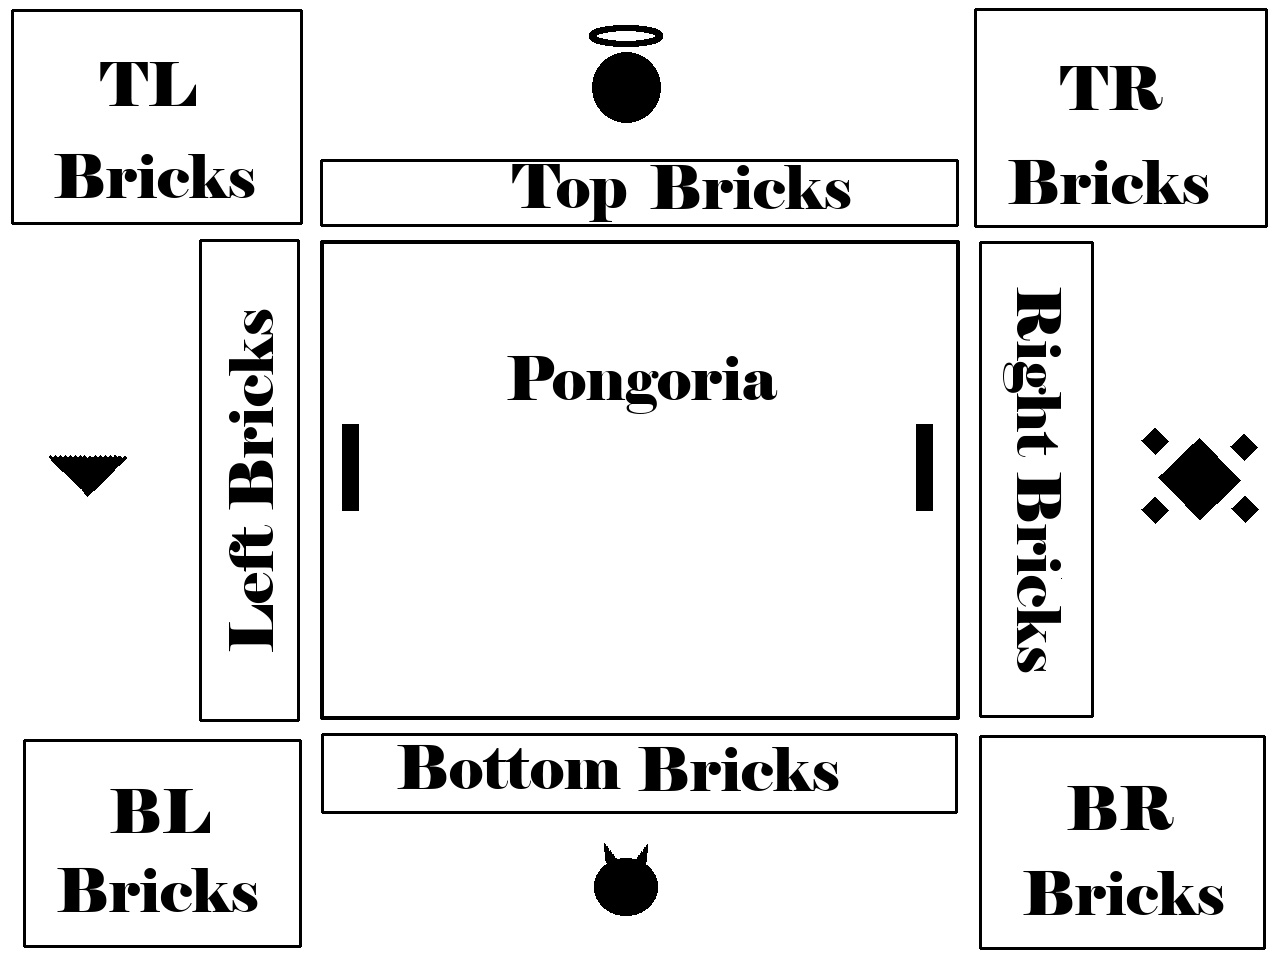
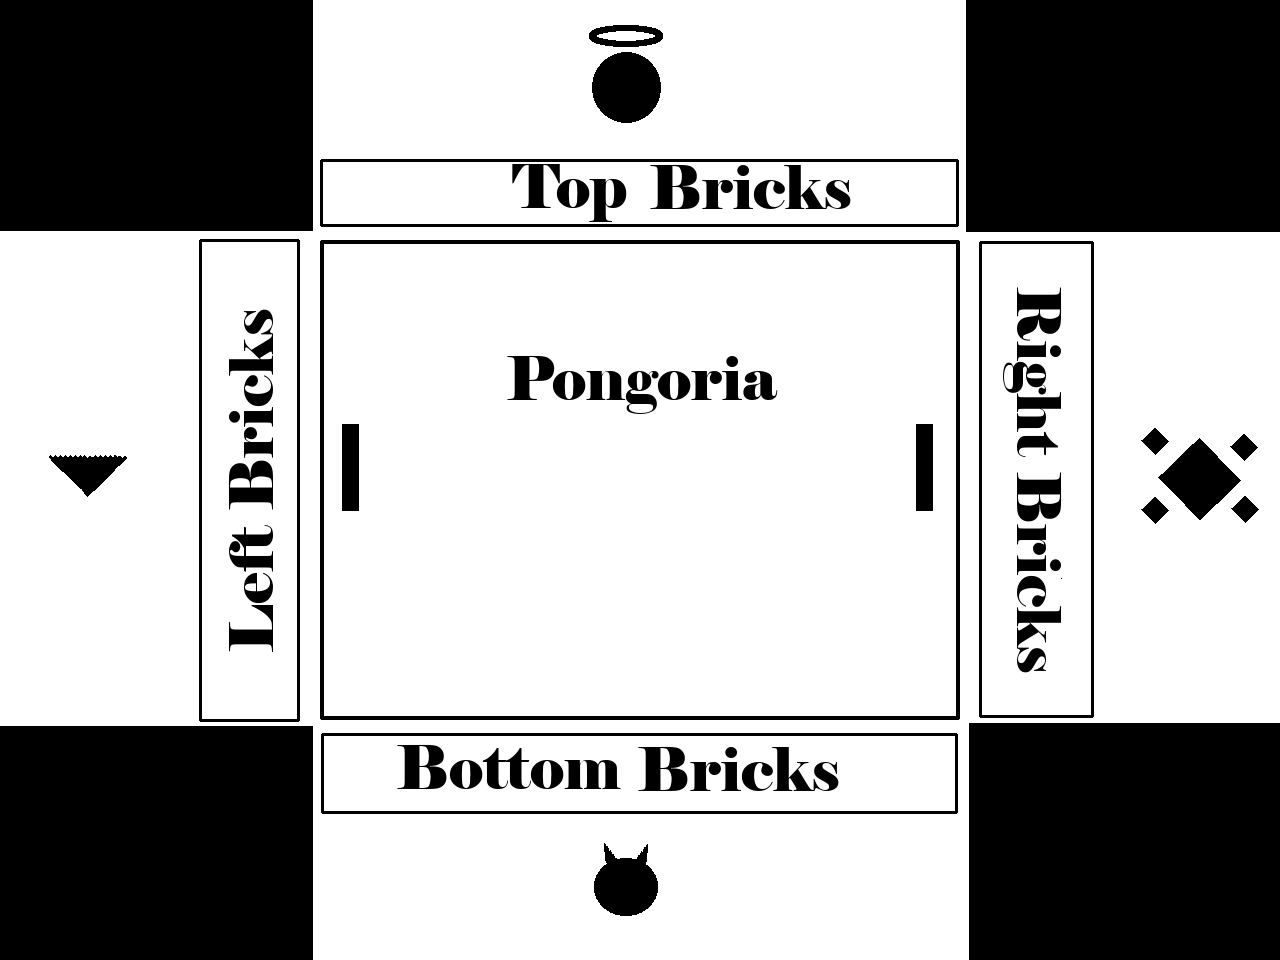
Rainbow POI, flipped world, color palette rework, and some map changes

diff --git a/PongMode.cpp b/PongMode.cpp
@@ -15,8 +15,16 @@ PongMode::PongMode() {
 	ball_trail.emplace_back(ball, trail_length);
 	ball_trail.emplace_back(ball, 0.0f);
 
+	// initialize rand_colors
+	for (int i = 0; i < sizeof(rand_colors) / sizeof(rand_colors[0]); i++) {
+		rand_colors[i] = rand_color();
+	}
+
 	// Set up POIs
-	POIs.emplace_back(glm::vec2(0.0f, 10.0f), POI_radius);
+	POIs.emplace_back(glm::vec2(0.0f, 18.0f), POI_radius);
+	POI rainbow_POI = POI(glm::vec2(0.0f, -18.0f), POI_radius);
+	rainbow_POI.rainbow = true;
+	POIs.emplace_back(rainbow_POI);
 
 	// TODO - more POIs?
 
@@ -29,6 +37,10 @@ PongMode::PongMode() {
 			bricks.emplace_back(glm::vec2(-x, y), glm::vec2(brick_width / 2.0f, brick_height / 2.0f));
 			bricks.emplace_back(glm::vec2( x,-y), glm::vec2(brick_width / 2.0f, brick_height / 2.0f));
 			bricks.emplace_back(glm::vec2(-x,-y), glm::vec2(brick_width / 2.0f, brick_height / 2.0f));
+			bricks_flipped.emplace_back(glm::vec2(x, y), glm::vec2(brick_height / 2.0f, brick_height / 2.0f));
+			bricks_flipped.emplace_back(glm::vec2(-x, y), glm::vec2(brick_height / 2.0f, brick_width / 2.0f));
+			bricks_flipped.emplace_back(glm::vec2(x, -y), glm::vec2(brick_height / 2.0f, brick_width / 2.0f));
+			bricks_flipped.emplace_back(glm::vec2(-x, -y), glm::vec2(brick_height / 2.0f, brick_height / 2.0f));
 		}
 	}
 	// Left & Right
@@ -38,6 +50,10 @@ PongMode::PongMode() {
 			bricks.emplace_back(glm::vec2(-x, y), glm::vec2(brick_height / 2.0f, brick_width / 2.0f));
 			bricks.emplace_back(glm::vec2(x, -y), glm::vec2(brick_height / 2.0f, brick_width / 2.0f));
 			bricks.emplace_back(glm::vec2(-x, -y), glm::vec2(brick_height / 2.0f, brick_width / 2.0f));
+			bricks_flipped.emplace_back(glm::vec2(x, y), glm::vec2(brick_width / 2.0f, brick_height / 2.0f));
+			bricks_flipped.emplace_back(glm::vec2(-x, y), glm::vec2(brick_width / 2.0f, brick_height / 2.0f));
+			bricks_flipped.emplace_back(glm::vec2(x, -y), glm::vec2(brick_width / 2.0f, brick_height / 2.0f));
+			bricks_flipped.emplace_back(glm::vec2(-x, -y), glm::vec2(brick_height / 2.0f, brick_height / 2.0f));
 		}
 	}
 
@@ -237,6 +253,14 @@ void PongMode::update(float elapsed, Window_settings& window_settings) {
 				ball.y = rect.y - radius.y - ball_radius.y;
 				ball_velocity.y = -std::abs(ball_velocity.y);
 			}
+			//warp x velocity based on offset from paddle center:
+			if (velo_warp) {
+				float og_speed = sqrt(ball_velocity.x * ball_velocity.x + ball_velocity.y * ball_velocity.y);
+				float vel = (ball.x - rect.x) / (radius.x + ball_radius.x);
+				ball_velocity.x = glm::mix(ball_velocity.x, vel, 0.75f);
+				ball_velocity /= sqrt(ball_velocity.x * ball_velocity.x + ball_velocity.y * ball_velocity.y);
+				ball_velocity *= og_speed;
+			}
 		} else {
 			//wider overlap in y => bounce in x direction:
 			if (ball.x > rect.x) {
@@ -270,15 +294,24 @@ void PongMode::update(float elapsed, Window_settings& window_settings) {
 		if (dist > radius) {
 			return false;
 		}
-		glm::vec2 displac_norm = displac / dist;
 		// Update velocity
-		float dot_product = ball_velocity.x * displac_norm.x + ball_velocity.y * displac_norm.y;
-		glm::vec2 projection = dot_product * displac_norm;
-		ball_velocity -= projection * 2.0f;
-		ball = circle - displac_norm * radius;
+		glm::vec2 displac_norm = displac / dist;
+		if (poi != NULL && poi->rainbow) {
+			state_rainbow = !state_rainbow;
+		}
 		if (poi != NULL && poi->flip) {
 			state_flipped = !state_flipped;
+			ball_velocity = -ball_velocity;
+			//set up trail as if ball has been here for 'forever':
+			ball_trail.clear();
+			ball_trail.emplace_back(ball, trail_length);
+			ball_trail.emplace_back(ball, 0.0f);
+		} else {
+			float dot_product = ball_velocity.x * displac_norm.x + ball_velocity.y * displac_norm.y;
+			glm::vec2 projection = dot_product * displac_norm;
+			ball_velocity -= projection * 2.0f;
 		}
+		ball = circle - displac_norm * radius;
 		cycle_title(window_settings);
 		return true;
 	};
@@ -290,12 +323,23 @@ void PongMode::update(float elapsed, Window_settings& window_settings) {
 	rect_vs_ball(top_paddle, horiz_paddle_radius, true);
 
 	// Check brick collisions with ball
-	for (auto bricks_iter = bricks.begin(); bricks_iter != bricks.end(); bricks_iter++) {
-		if (!(*bricks_iter).deleted) {
-			if (rect_vs_ball((*bricks_iter).Position, (*bricks_iter).Radius, false)) {
-				(*bricks_iter).deleted = true;
+	if (state_flipped) {
+		for (auto bricks_iter = bricks_flipped.begin(); bricks_iter != bricks_flipped.end(); bricks_iter++) {
+			if (!(*bricks_iter).deleted) {
+				if (rect_vs_ball((*bricks_iter).Position, (*bricks_iter).Radius, false)) {
+					(*bricks_iter).deleted = true;
+				}
 			}
 		}
+	} else {
+		for (auto bricks_iter = bricks.begin(); bricks_iter != bricks.end(); bricks_iter++) {
+			if (!(*bricks_iter).deleted) {
+				if (rect_vs_ball((*bricks_iter).Position, (*bricks_iter).Radius, false)) {
+					(*bricks_iter).deleted = true;
+				}
+			}
+		}
+
 	}
 
 	// Check POI collisions with ball
@@ -304,6 +348,12 @@ void PongMode::update(float elapsed, Window_settings& window_settings) {
 		circle_vs_ball((*POI_iter).Position, (*POI_iter).Radius, &(*POI_iter));
 	}
 
+	// Corner blocks
+	rect_vs_ball(TR_block, block_radius, false);
+	rect_vs_ball(BR_block, block_radius, false);
+	rect_vs_ball(BL_block, block_radius, false);
+	rect_vs_ball(TL_block, block_radius, false);
+
 	//court extremeties:
 	if (ball.y > extreme_radius.y - ball_radius.y) {
 		ball.y = extreme_radius.y - ball_radius.y;
@@ -311,10 +361,10 @@ void PongMode::update(float elapsed, Window_settings& window_settings) {
 			ball_velocity.y = -ball_velocity.y;
 		}
 		//extend wall upward.
-		camera_bounds_max.y += d_camera_bounds_per_bounce;
+		/*camera_bounds_max.y += d_camera_bounds_per_bounce;
 		camera_pos.y += d_camera_bounds_per_bounce * 0.5f;
 		window_settings.size.y += d_window_size_per_bounce;
-		window_settings.position.y -= d_window_size_per_bounce;
+		window_settings.position.y -= d_window_size_per_bounce;*/
 		cycle_title(window_settings);
 	}
 	if (ball.y < -extreme_radius.y + ball_radius.y) {
@@ -323,9 +373,9 @@ void PongMode::update(float elapsed, Window_settings& window_settings) {
 			ball_velocity.y = -ball_velocity.y;
 		}
 		//extend wall downward.
-		camera_bounds_min.y -= d_camera_bounds_per_bounce;
+		/*camera_bounds_min.y -= d_camera_bounds_per_bounce;
 		camera_pos.y -= d_camera_bounds_per_bounce * 0.5f;
-		window_settings.size.y += d_window_size_per_bounce;
+		window_settings.size.y += d_window_size_per_bounce;*/
 		cycle_title(window_settings);
 	}
 
@@ -335,9 +385,9 @@ void PongMode::update(float elapsed, Window_settings& window_settings) {
 			ball_velocity.x = -ball_velocity.x;
 		}
 		//extend wall right.
-		camera_bounds_max.x += d_camera_bounds_per_bounce;
+		/*camera_bounds_max.x += d_camera_bounds_per_bounce;
 		camera_pos.x += d_camera_bounds_per_bounce * 0.5f;
-		window_settings.size.x += d_window_size_per_bounce;
+		window_settings.size.x += d_window_size_per_bounce;*/
 		cycle_title(window_settings);
 	}
 	if (ball.x < -extreme_radius.x + ball_radius.x) {
@@ -346,10 +396,10 @@ void PongMode::update(float elapsed, Window_settings& window_settings) {
 			ball_velocity.x = -ball_velocity.x;
 		}
 		//extend wall left.
-		camera_bounds_min.x -= d_camera_bounds_per_bounce;
+		/*camera_bounds_min.x -= d_camera_bounds_per_bounce;
 		camera_pos.x -= d_camera_bounds_per_bounce * 0.5f;
 		window_settings.size.x += d_window_size_per_bounce;
-		window_settings.position.x -= d_window_size_per_bounce;
+		window_settings.position.x -= d_window_size_per_bounce;*/
 		cycle_title(window_settings);
 	}
 
@@ -370,6 +420,10 @@ void PongMode::update(float elapsed, Window_settings& window_settings) {
 }
 
 void PongMode::cycle_title(Mode::Window_settings &window_settings) {
+	//cycle rand_colors too
+	for (int i = 0; i < sizeof(rand_colors) / sizeof(rand_colors[0]); i++) {
+		rand_colors[i] = rand_color();
+	}
 	//update window name
 	if (window_settings.title == NULL) {
 		window_settings.title = &title_cycle[0];
@@ -385,25 +439,32 @@ void PongMode::cycle_title(Mode::Window_settings &window_settings) {
 	window_settings.title = &title_cycle[0];
 }
 
+glm::u8vec4 PongMode::rand_color() {
+	return glm::u8vec4(glm::u8(rand()), glm::u8(rand()), glm::u8(rand()), 0xff);
+}
+
 void PongMode::draw(glm::uvec2 const &drawable_size) {
 	//some nice colors from the course web page:
-	#define HEX_TO_U8VEC4( HX ) (glm::u8vec4( (HX >> 24) & 0xff, (HX >> 16) & 0xff, (HX >> 8) & 0xff, (HX) & 0xff ))
-	const glm::u8vec4 bg_color = HEX_TO_U8VEC4(0x171714ff);
-	const glm::u8vec4 fg_color = HEX_TO_U8VEC4(0xd1bb54ff);
-	const glm::u8vec4 brick_color = HEX_TO_U8VEC4(0x03fca1ff);
+	#define HEX_TO_U8VEC4( HX ) (state_flipped ? (~glm::u8vec4(HX >> 24, HX >> 16, HX >> 8, ~HX)) : (glm::u8vec4(HX >> 24, HX >> 16, HX >> 8, HX)) )
+	const glm::u8vec4 bg_color = state_rainbow ? (rand_colors[0]) : HEX_TO_U8VEC4(0x76BED0ff);
+	const glm::u8vec4 ball_color = state_rainbow ? (rand_colors[1]) : HEX_TO_U8VEC4(0xEEE5E9ff);
+	const glm::u8vec4 paddle_color = state_rainbow ? (rand_colors[2]) : HEX_TO_U8VEC4(0xA9FDACff);
+	const glm::u8vec4 brick_color = state_rainbow ? (rand_colors[3]) : HEX_TO_U8VEC4(0x1F2F16ff);
+	const glm::u8vec4 shadow_color = state_rainbow ? (rand_colors[4]) : HEX_TO_U8VEC4(0xCCC5C9f0);
+	const glm::u8vec4 shadow_color_2 = state_rainbow ? (rand_colors[5]) : HEX_TO_U8VEC4(0x00000000);
+	// Reserved POI colors
+	const glm::u8vec4 mauve_color = HEX_TO_U8VEC4(0x8B687Fff);
 	const glm::u8vec4 gold_color = HEX_TO_U8VEC4(0xd1bf1bff);
 	const glm::u8vec4 red_color = HEX_TO_U8VEC4(0x8f071bff);
-	const glm::u8vec4 shadow_color = HEX_TO_U8VEC4(0x604d29ff);
-	const std::vector< glm::u8vec4 > rainbow_colors = {
-		HEX_TO_U8VEC4(0x604d29ff), HEX_TO_U8VEC4(0x624f29fc), HEX_TO_U8VEC4(0x69542df2),
-		HEX_TO_U8VEC4(0x6a552df1), HEX_TO_U8VEC4(0x6b562ef0), HEX_TO_U8VEC4(0x6b562ef0),
-		HEX_TO_U8VEC4(0x6d572eed), HEX_TO_U8VEC4(0x6f592feb), HEX_TO_U8VEC4(0x725b31e7),
-		HEX_TO_U8VEC4(0x745d31e3), HEX_TO_U8VEC4(0x755e32e0), HEX_TO_U8VEC4(0x765f33de),
-		HEX_TO_U8VEC4(0x7a6234d8), HEX_TO_U8VEC4(0x826838ca), HEX_TO_U8VEC4(0x977840a4),
-		HEX_TO_U8VEC4(0x96773fa5), HEX_TO_U8VEC4(0xa07f4493), HEX_TO_U8VEC4(0xa1814590),
-		HEX_TO_U8VEC4(0x9e7e4496), HEX_TO_U8VEC4(0xa6844887), HEX_TO_U8VEC4(0xa9864884),
-		HEX_TO_U8VEC4(0xad8a4a7c),
-	};
+	std::vector< glm::u8vec4 > rainbow_colors = {};
+	for (int i = 0; i < 21; i++) {
+		glm::u8vec4 faded_color = shadow_color;
+		faded_color.a -= i * (0xff / 21);
+		faded_color.r += i * (shadow_color_2.r / 63);
+		faded_color.g += i * (shadow_color_2.g / 63);
+		faded_color.b += i * (shadow_color_2.b / 63);
+		rainbow_colors.emplace_back(faded_color);
+	}
 	#undef HEX_TO_U8VEC4
 
 	//other useful drawing constants:
@@ -452,7 +513,17 @@ void PongMode::draw(glm::uvec2 const &drawable_size) {
 	// POIs
 	for (auto POI_iter = POIs.begin(); POI_iter != POIs.end(); POI_iter++) {
 		float radius = (*POI_iter).Radius;
-		draw_filled_circle((*POI_iter).Position, glm::vec2(radius, radius), fg_color);
+		if (POI_iter->rainbow) {
+			uint16_t c = 0;
+			float decr = 1.0f;
+			for (float inner_radius = radius; inner_radius > 0.0f; inner_radius -= decr) {
+				draw_filled_circle((*POI_iter).Position, glm::vec2(inner_radius, inner_radius), (c == 2) ? rand_color() : rand_colors[c]);
+				c = (c+1) % (sizeof(rand_colors)/sizeof(rand_colors[0]));
+				decr *= 0.85f;
+			}
+		} else {
+			draw_filled_circle((*POI_iter).Position, glm::vec2(radius, radius), mauve_color);
+		}
 	}
 
 	//shadows for everything (except the trail):
@@ -484,26 +555,34 @@ void PongMode::draw(glm::uvec2 const &drawable_size) {
 			glm::vec3 b = *(ti);
 			glm::vec2 at = (t - a.z) / (b.z - a.z) * (glm::vec2(b) - glm::vec2(a)) + glm::vec2(a);
 			//draw:
-			draw_rectangle(at, ball_radius, rainbow_colors[i]);
+			//draw_rectangle(at, ball_radius, rainbow_colors[i]);
+			draw_filled_circle(at, ball_radius, rainbow_colors[i]);
 		}
 	}
 
 	//solid objects:
 
 	//walls:
-	draw_rectangle(glm::vec2(-extreme_radius.x-wall_radius, 0.0f), glm::vec2(wall_radius, extreme_radius.y + 2.0f * wall_radius), fg_color);
-	draw_rectangle(glm::vec2(extreme_radius.x+wall_radius, 0.0f), glm::vec2(wall_radius, extreme_radius.y + 2.0f * wall_radius), fg_color);
-	draw_rectangle(glm::vec2( 0.0f,-extreme_radius.y-wall_radius), glm::vec2(extreme_radius.x, wall_radius), fg_color);
-	draw_rectangle(glm::vec2( 0.0f, extreme_radius.y+wall_radius), glm::vec2(extreme_radius.x, wall_radius), fg_color);
+	draw_rectangle(glm::vec2(-extreme_radius.x-wall_radius, 0.0f), glm::vec2(wall_radius, extreme_radius.y + 2.0f * wall_radius), paddle_color);
+	draw_rectangle(glm::vec2(extreme_radius.x+wall_radius, 0.0f), glm::vec2(wall_radius, extreme_radius.y + 2.0f * wall_radius), paddle_color);
+	draw_rectangle(glm::vec2( 0.0f,-extreme_radius.y-wall_radius), glm::vec2(extreme_radius.x, wall_radius), paddle_color);
+	draw_rectangle(glm::vec2( 0.0f, extreme_radius.y+wall_radius), glm::vec2(extreme_radius.x, wall_radius), paddle_color);
+
+	// Corner blocks:
+	draw_rectangle(TR_block, block_radius, paddle_color);
+	draw_rectangle(BR_block, block_radius, paddle_color);
+	draw_rectangle(BL_block, block_radius, paddle_color);
+	draw_rectangle(TL_block, block_radius, paddle_color);
 
 	//paddles:
-	draw_rectangle(left_paddle, vert_paddle_radius, fg_color);
-	draw_rectangle(right_paddle, vert_paddle_radius, fg_color);
-	draw_rectangle(bottom_paddle, horiz_paddle_radius, fg_color);
-	draw_rectangle(top_paddle, horiz_paddle_radius, fg_color);
+	draw_rectangle(left_paddle, vert_paddle_radius, paddle_color);
+	draw_rectangle(right_paddle, vert_paddle_radius, paddle_color);
+	draw_rectangle(bottom_paddle, horiz_paddle_radius, paddle_color);
+	draw_rectangle(top_paddle, horiz_paddle_radius, paddle_color);
 	
 	//ball:
-	draw_rectangle(ball, ball_radius, fg_color);
+	//draw_rectangle(ball, ball_radius, fg_color);
+	draw_filled_circle(ball, ball_radius, ball_color);
 
 	//scores:
 	/*glm::vec2 score_radius = glm::vec2(0.1f, 0.1f);
@@ -515,9 +594,17 @@ void PongMode::draw(glm::uvec2 const &drawable_size) {
 	}*/
 
 	//bricks:
-	for (auto bricks_iter = bricks.begin(); bricks_iter != bricks.end(); bricks_iter++) {
-		if (!(*bricks_iter).deleted) {
-			draw_rectangle((*bricks_iter).Position, (*bricks_iter).Radius, brick_color);
+	if (state_flipped) {
+		for (auto bricks_iter = bricks_flipped.begin(); bricks_iter != bricks_flipped.end(); bricks_iter++) {
+			if (!(*bricks_iter).deleted) {
+				draw_rectangle((*bricks_iter).Position, (*bricks_iter).Radius, brick_color);
+			}
+		}
+	} else {
+		for (auto bricks_iter = bricks.begin(); bricks_iter != bricks.end(); bricks_iter++) {
+			if (!(*bricks_iter).deleted) {
+				draw_rectangle((*bricks_iter).Position, (*bricks_iter).Radius, brick_color);
+			}
 		}
 	}
 

diff --git a/PongMode.hpp b/PongMode.hpp
@@ -21,6 +21,7 @@ struct PongMode : Mode {
 	virtual void update_mouse_pos(glm::vec2 const& new_mouse_pos, glm::uvec2 const& window_size);
 	virtual void update(float elapsed, Window_settings& window_settings) override;
 	virtual void cycle_title(Mode::Window_settings &window_settings);
+	virtual glm::u8vec4 rand_color();
 	virtual void draw(glm::uvec2 const &drawable_size) override;
 
 	//----- settings -----
@@ -37,8 +38,8 @@ struct PongMode : Mode {
 
 	// POIs
 	const float POI_radius = 5.0f;
-	const float POI_opacity_radius_inner = 0.5f;
-	const float POI_opacity_radius_outer = 2.0f;
+	const float POI_opacity_radius_inner = 0.25f;
+	const float POI_opacity_radius_outer = 1.5f;
 
 	struct POI {
 		POI(glm::vec2 const& Position_, float Radius_) :
@@ -65,11 +66,12 @@ struct PongMode : Mode {
 		bool deleted = false;
 	};
 	std::vector< Brick > bricks;
+	std::vector< Brick > bricks_flipped;
 
 	//----- game state -----
 
-	glm::vec2 base_court_radius = glm::vec2(8.0f, 6.0f);
-	glm::vec2 extreme_radius = glm::vec2(40.0f, 30.0f);
+	glm::vec2 base_court_radius = glm::vec2(7.0f, 7.0f);
+	glm::vec2 extreme_radius = glm::vec2(24.0f, 24.0f);
 	glm::vec2 vert_paddle_radius = glm::vec2(0.2f, 1.0f);
 	glm::vec2 horiz_paddle_radius = glm::vec2(1.0f, 0.2f);
 	glm::vec2 ball_radius = glm::vec2(0.2f, 0.2f);
@@ -79,8 +81,15 @@ struct PongMode : Mode {
 	glm::vec2 bottom_paddle = glm::vec2(0.0f, -base_court_radius.y + 0.5f);
 	glm::vec2 top_paddle = glm::vec2(0.0f, base_court_radius.y - 0.5f);
 
+	glm::vec2 block_dist = base_court_radius + glm::vec2(brick_layer_height, brick_layer_height) + 0.5f * (extreme_radius - (base_court_radius + glm::vec2(brick_layer_height, brick_layer_height)));
+	glm::vec2 block_radius = 0.5f * (extreme_radius - (base_court_radius + glm::vec2(brick_layer_height, brick_layer_height)));
+	glm::vec2 TR_block = glm::vec2( block_dist.x, block_dist.y);
+	glm::vec2 BR_block = glm::vec2( block_dist.x,-block_dist.y);
+	glm::vec2 BL_block = glm::vec2(-block_dist.x,-block_dist.y);
+	glm::vec2 TL_block = glm::vec2(-block_dist.x, block_dist.y);
+
 	glm::vec2 ball = glm::vec2(0.0f, 0.0f);
-	glm::vec2 ball_velocity = glm::vec2(-1.0f, 0.0f);
+	glm::vec2 ball_velocity = glm::vec2(0.0, 1.0f);
 
 	glm::vec2 absolute_mouse_pos = glm::vec2(0.0f, 0.0f);
 	glm::vec2 relative_mouse_pos = glm::vec2(0.0f, 0.0f);
@@ -98,6 +107,9 @@ struct PongMode : Mode {
 	float ai_offset_update = 0.0f;*/
 
 	bool state_flipped = false;
+	bool state_rainbow = false;
+
+	glm::u8vec4 rand_colors[10];
 
 	//----- pretty rainbow trails -----
 

diff --git a/main.cpp b/main.cpp
@@ -49,7 +49,8 @@ int main(int argc, char **argv) {
 	SDL_Window *window = SDL_CreateWindow(
 		"Skies of Pongora", //Remember to change title_cycle in PongMode.hpp if you change this
 		SDL_WINDOWPOS_UNDEFINED, SDL_WINDOWPOS_UNDEFINED,
-		640, 480, //window size
+		//640, 480,
+		800, 800, //window size
 		SDL_WINDOW_OPENGL
 		| SDL_WINDOW_RESIZABLE //uncomment to allow resizing
 		| SDL_WINDOW_ALLOW_HIGHDPI //uncomment for full resolution on high-DPI screens
